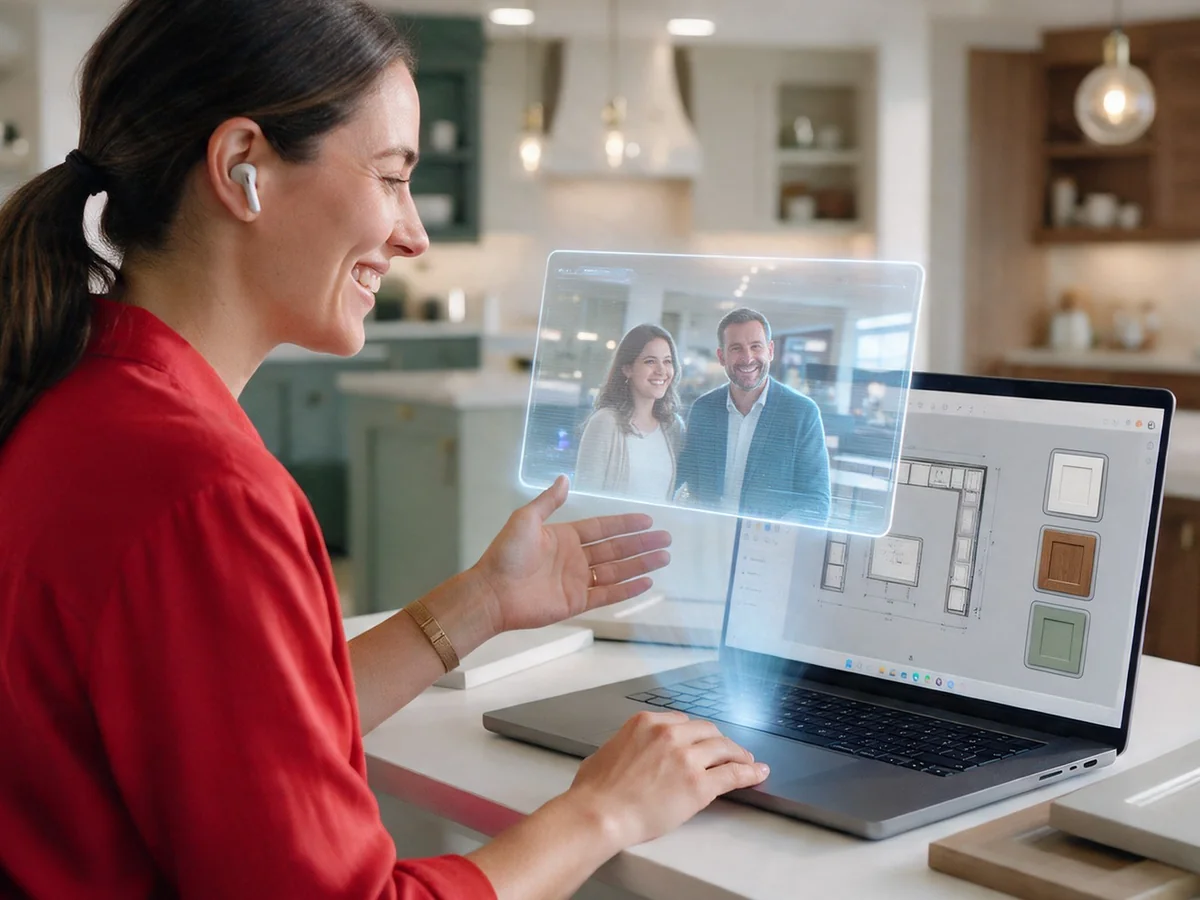
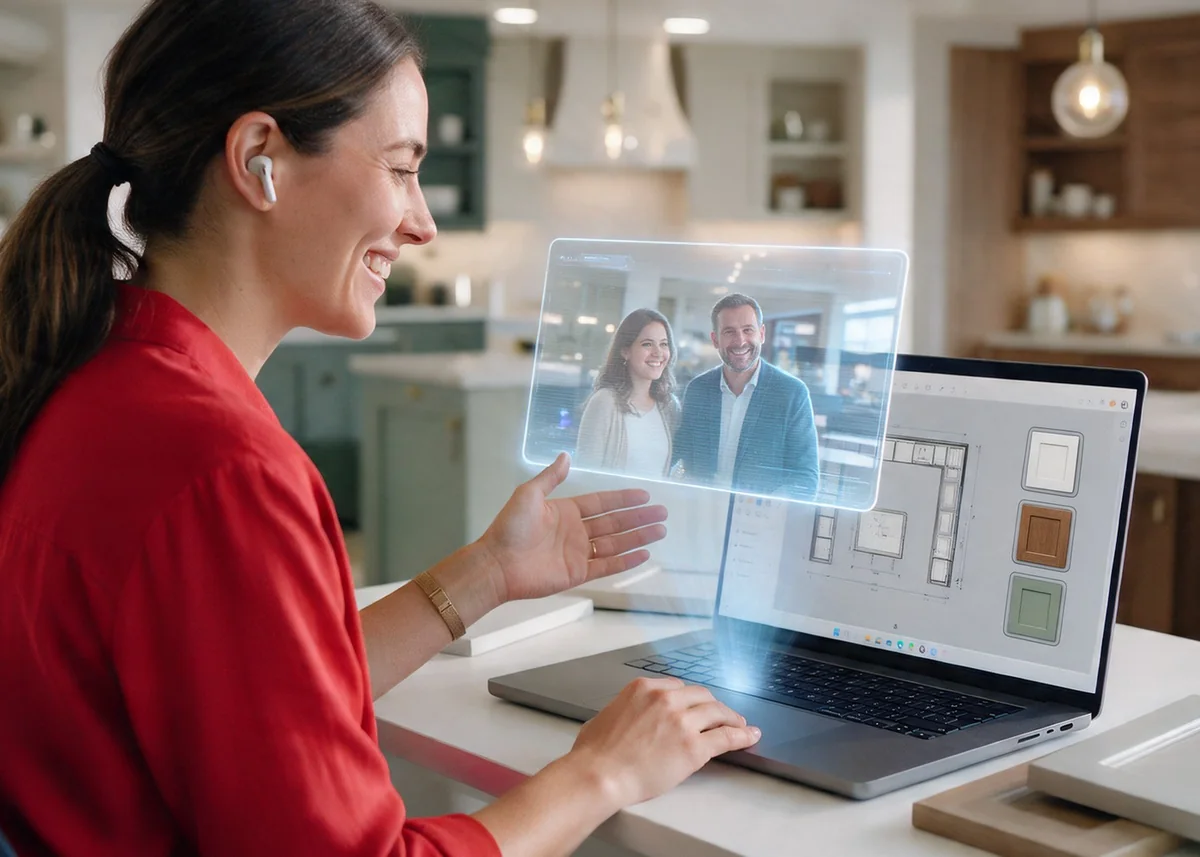
Home 'Not sure yet?': visualizer photo; plain photo slot 7:5 (slightly shorter)
Both photos re-cropped to 7:5 at 1200x857.

diff --git a/lib/home/home-content.ts b/lib/home/home-content.ts
@@ -232,6 +232,10 @@ export const THREE_WAYS: RowCard[] = [
       'Try door styles and colours on a kitchen like yours, and swap them until it looks right.',
     ctaLabel: 'Visualize my kitchen',
     href: '/mykitchen/visualizer',
+    image: {
+      src: '/images/home/ways/visualizer.webp',
+      alt: 'A homeowner holding a tablet up to her kitchen, trying sage-green doors on it',
+    },
     imageLabel: 'A kitchen on a tablet, swapping door colours',
   },
   {

diff --git a/vibes/soul/sections/cards-row/index.tsx b/vibes/soul/sections/cards-row/index.tsx
@@ -26,7 +26,7 @@ interface Props {
   hideImages?: boolean;
   /**
    * 'inset' (default) keeps the photo inside the card padding; 'bleed' runs it edge to edge;
-   * 'plain' drops the card chrome: a taller rounded photo with the copy straight beneath it.
+   * 'plain' drops the card chrome: a taller (7:5) rounded photo with the copy straight beneath it.
    */
   imageStyle?: 'inset' | 'bleed' | 'plain';
   tint?: boolean;
